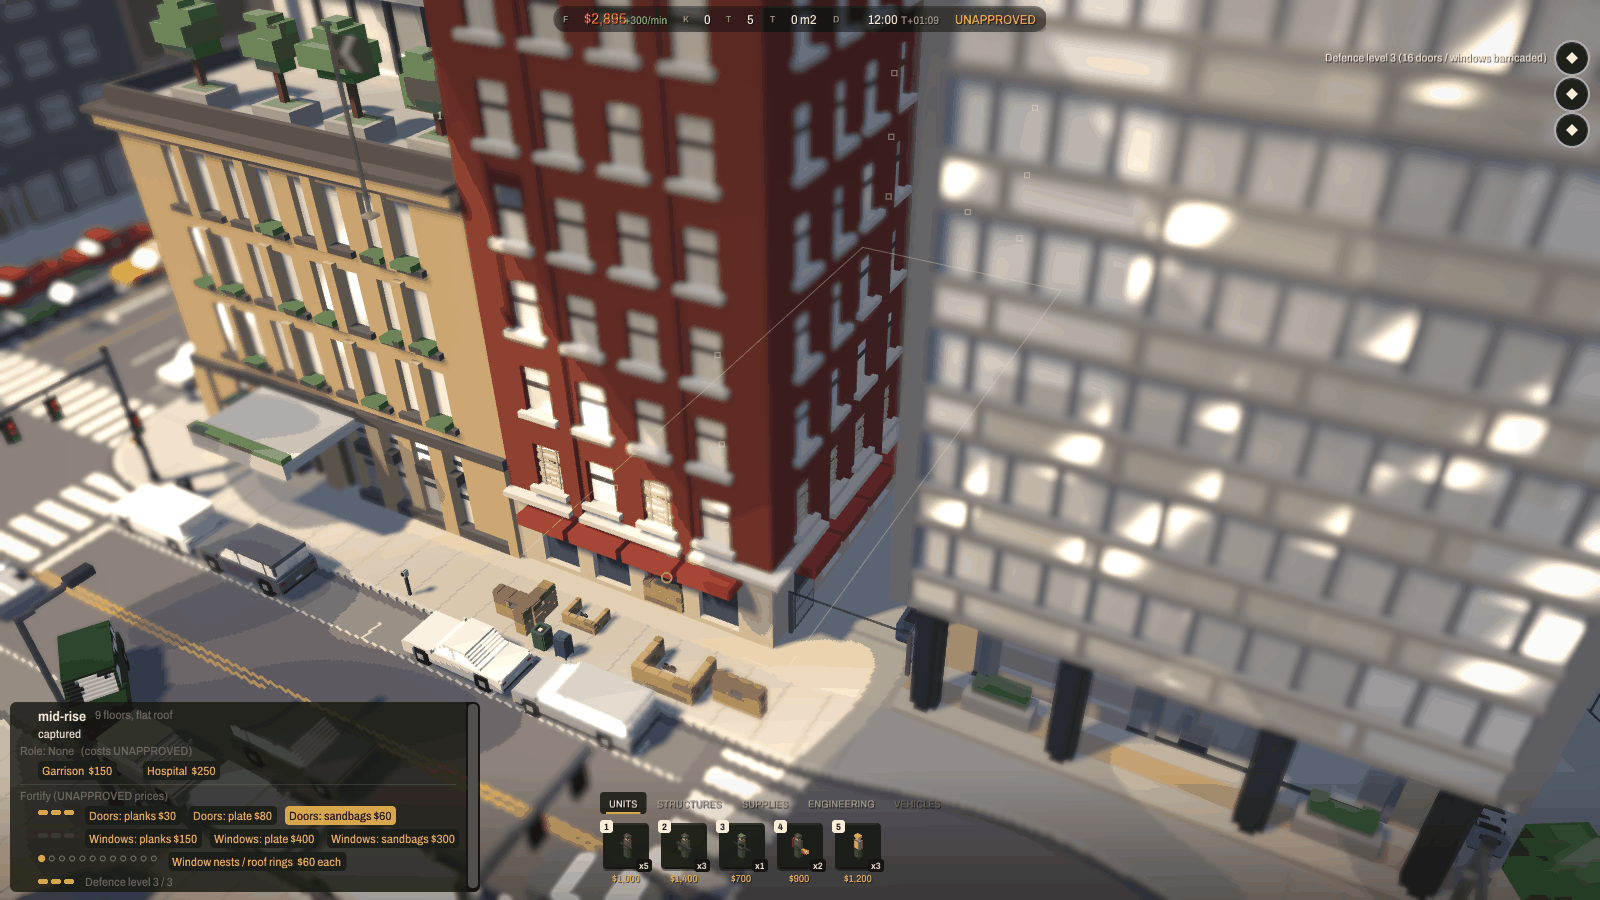
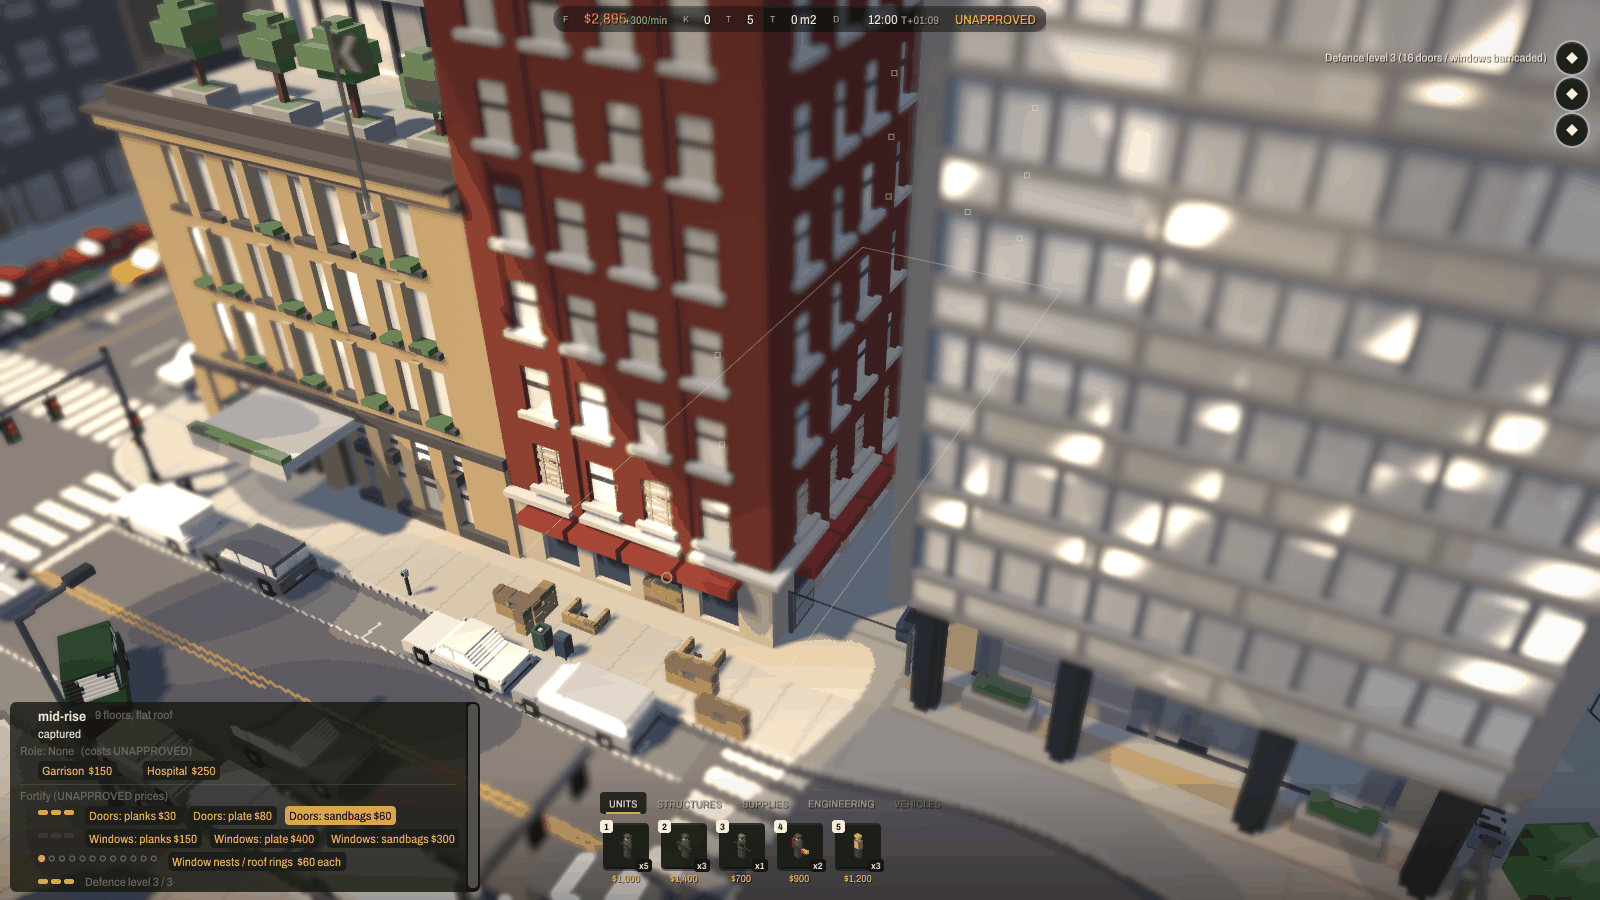
WS-C: fort pieces avoid baked props / garden walls / bins / curbs (HGT0 top sampled every 0.25 m), L1 small sandbag at each door; daylight shots + grids
- BuildingPlay::placeFortPieces: footprint + 0.15 m must stay within 0.12 m of the base on the baked height grid
  (CityVehicles::groundAt: prop / wall tops, no vehicles) via the new bakedTop hook.
- L1: one 0.6-scale sandbag U beside each door (same clearance / re-placement / obstacle path).
- GameWorld.cpp: one-line hook buildings_.bakedTop.

Claude-Session: https://claude.ai/code/session_01N78bVtBvLipdR2wi72Ftab

Changed region(s): [[0.375, 0.6844, 0.5, 0.84]]

diff --git a/src/game/BuildingPlay.cpp b/src/game/BuildingPlay.cpp
@@ -253,12 +253,23 @@ void BuildingPlay::placeFortPieces(GameContext& ctx, Building& B) {
                 }
             }
         if (carNear && carNear(b.cx, b.cz, std::max(b.hx, b.hz) + 0.3f)) return false;
+        // baked street props, garden walls, bins, curbs (HGT0 'top' = prop / wall tops): the footprint + 0.15 m must
+        // stay within 0.12 m of the base height, sampled every 0.25 m (the grid is 0.5 m)
+        if (bakedTop) {
+            const float base = bakedTop(b.cx, b.cz);
+            const int nu = (int)std::ceil((b.hx + 0.15f) / 0.25f), nv = (int)std::ceil((b.hz + 0.15f) / 0.25f);
+            for (int i = -nu; i <= nu; ++i)
+                for (int j = -nv; j <= nv; ++j) {
+                    const float lx = std::clamp((float)i * 0.25f, -(b.hx + 0.15f), b.hx + 0.15f), lz = std::clamp((float)j * 0.25f, -(b.hz + 0.15f), b.hz + 0.15f);
+                    if (std::fabs(bakedTop(b.cx + lx * b.c + lz * b.s, b.cz - lx * b.s + lz * b.c) - base) > 0.12f) return false;
+                }
+        }
         return true;
     };
-    auto place = [&](uint8_t kind, V3 at, float yaw, float nx, float nz) {
+    auto place = [&](uint8_t kind, V3 at, float yaw, float nx, float nz, int sc0 = 0) {
         const float tx = nz, tz = -nx;
         static const float outs[5] = {0.f, -0.6f, -1.2f, 1.0f, 2.0f}, alongs[3] = {0.f, 0.8f, -0.8f};
-        for (int sc = 0; sc < 2; ++sc)
+        for (int sc = sc0; sc < 2; ++sc)
             for (int rot = 0; rot < 2; ++rot)
                 for (float dO : outs)
                     for (float dA : alongs) {
@@ -275,6 +286,16 @@ void BuildingPlay::placeFortPieces(GameContext& ctx, Building& B) {
                         return;
                     }
     };
+    if (B.defence >= 1 && B.fortLevel < 1)   // L1: one small (0.6) sandbag U beside each door
+        for (const Opening& o : B.openings) {
+            if (o.type != OpeningType::Door) continue;
+            float u, v;
+            B.toLocal(o.pos.x, o.pos.z, u, v);
+            const float ins = std::max(0.f, std::max({-(o.nx * B.e2x + o.nz * B.e2z) * v, (o.nx * B.e1x + o.nz * B.e1z) * (B.w - u),
+                                                      (o.nx * B.e2x + o.nz * B.e2z) * (B.d - v), -(o.nx * B.e1x + o.nz * B.e1z) * u}));
+            const float off = 0.5f * o.width + 1.1f, out = ins + 0.8f;
+            place(0, {o.pos.x + o.nx * out + o.nz * off, o.pos.y, o.pos.z + o.nz * out - o.nx * off}, std::atan2(o.nx, o.nz), o.nx, o.nz, 1);
+        }
     if (B.defence >= 2 && B.fortLevel < 2)
         for (const Opening& o : B.openings) {
             if (o.type != OpeningType::Door) continue;

diff --git a/src/game/GameWorld.cpp b/src/game/GameWorld.cpp
@@ -91,6 +91,7 @@ bool GameWorld::init(AppState& app, const GameOptions& opt) {
     engineers_.removeVehicle = [&app](uint32_t v) { app.vehicles.removeVehicle(v); };
     buildings_.addObstacle = [&app](float cx, float cz, float hx, float hz, float yaw, float top) { return app.vehicles.addObstacle(cx, cz, hx, hz, yaw, top); };
     buildings_.carNear = [&app](float x, float z, float r) { return app.vehicles.parkedAt(x, z, r) != UINT32_MAX; };
+    buildings_.bakedTop = [&app](float x, float z) { return app.vehicles.groundAt(x, z); };
     ai_.workHook = [this](GameContext& c, uint32_t i) { return engineers_.work(c, i); };
     ai_.workFirstHook = [this](const GameContext& c, uint32_t i, V3 t, float d) { return engineers_.keepWorking(c, i, t, d); };
     installStructures(*this, app);                             // 14e: tower / generator / light / fuel jobs, car fuel, UI

diff --git a/src/game/BuildingPlay.h b/src/game/BuildingPlay.h
@@ -55,6 +55,7 @@ public:
     // + soldier NavGrid patch), and "a parked vehicle within r of (x, z)". Unset: placement still checks the NavGrid.
     std::function<uint32_t(float cx, float cz, float hx, float hz, float yaw, float top)> addObstacle;
     std::function<bool(float x, float z, float r)> carNear;
+    std::function<float(float x, float z)> bakedTop;   // baked HGT0 top (m): props, walls, curbs (no vehicles)
 
     // UI / script requests, applied at the start of the next tick (input never mutates game state directly)
     enum class Act : uint8_t { Role, Garrison, BarricadeDoors, BarricadeWindows, Nest, Release, Fortify };
